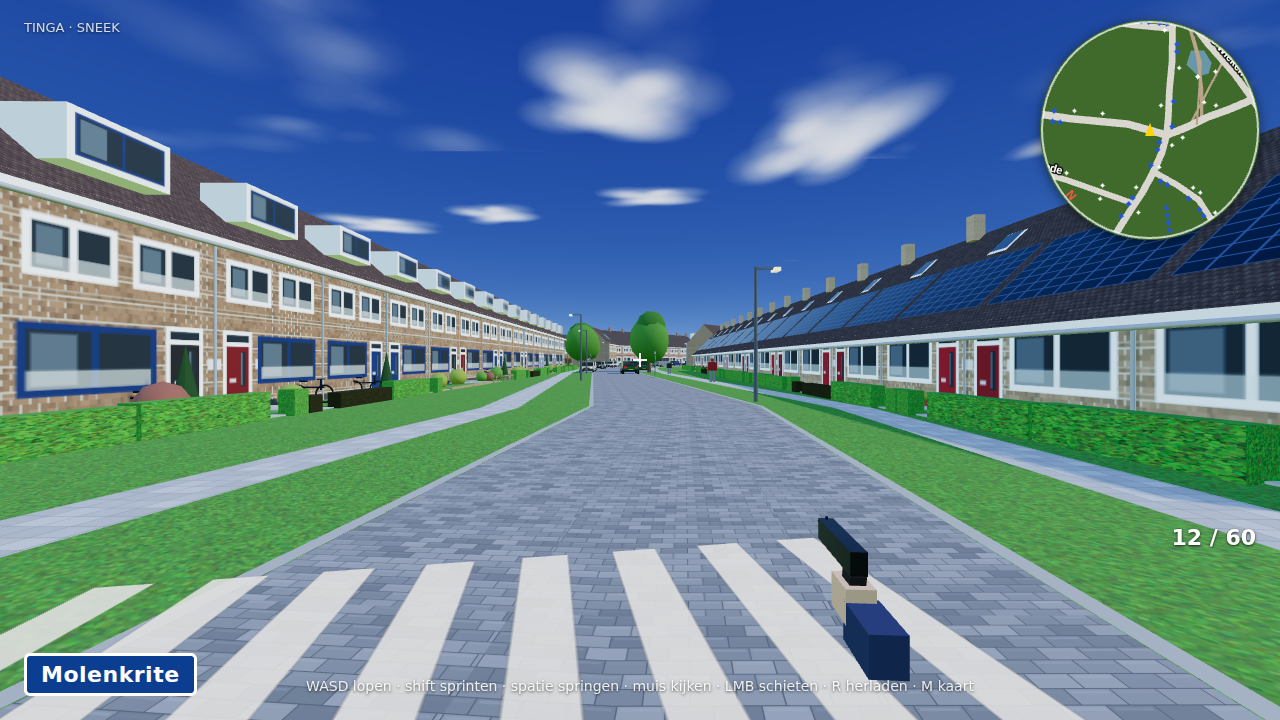
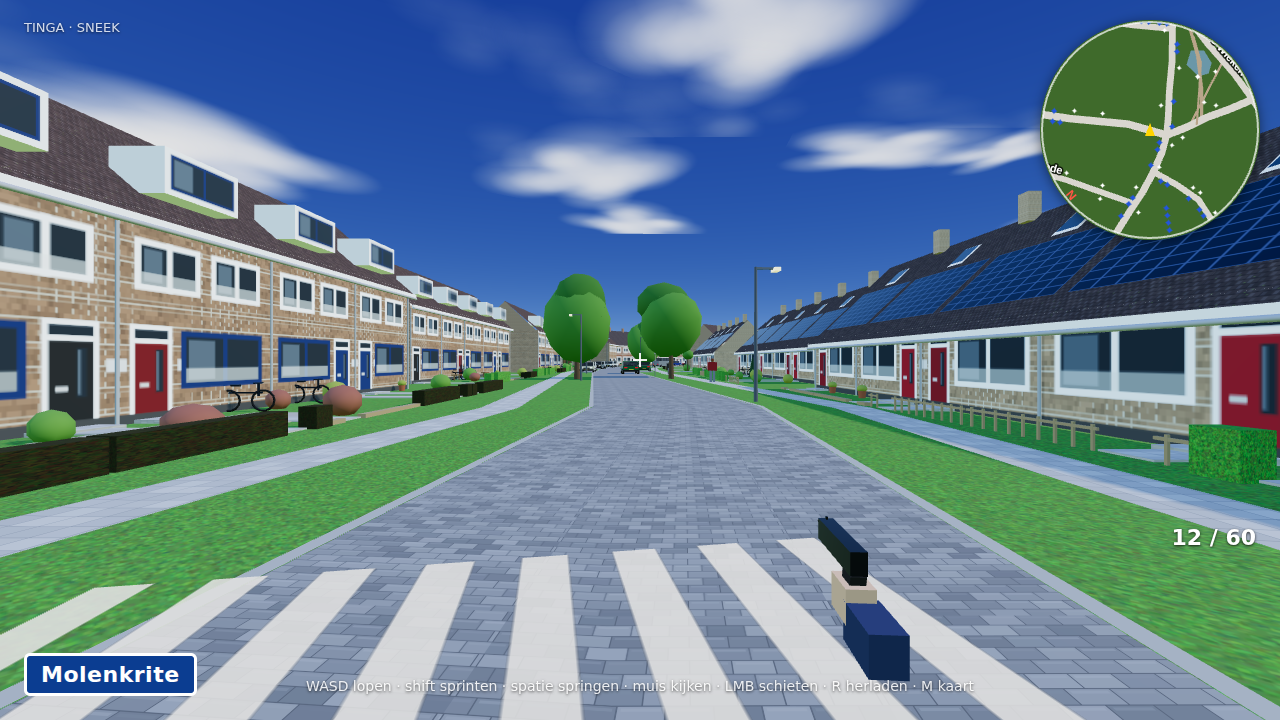
Molenkrite: verspringende rooilijn in plaats van een kaarsrechte rij
Op straat loopt een lange rij niet in een rechte lijn: na zes a zeven
woningen springt het blok een paar meter naar achteren en daarna weer naar
voren, waardoor je de kopgevel op de knik ziet. Mijn rijen stonden kaarsrecht.

- Nieuwe optie stagger per rij: { houses, step }. Een lange rij wordt
  opgeknipt in blokken van zoveel woningen, met om en om een grotere afstand
  tot de weg. Bruikbaar voor elke straat
- Molenkrite noordwestzijde: blokken van zeven met een sprong van 2,4 m
- Molenkrite zuidoostzijde: blokken van zes met een sprong van 2,0 m
- De verdichting met rug-aan-rug rijen werkt op de opgeknipte rijen, zodat
  de achterliggende rijen dezelfde sprong volgen

Claude-Session: https://claude.ai/code/session_01CgvJ3cT2qTz68qbaTBhnbp

diff --git a/js/world.js b/js/world.js
@@ -1,6 +1,6 @@
 // Wereldopbouw: wegen, stoepen, parkeervakken, water, groen, huizen, straatmeubilair.
 import * as THREE from 'three';
-import { ROADS, HIGHWAY, WATER, WATERWAYS, WOODS, GRASS, ROWS, PARKS, PARKING_LOTS, PLAYGROUND, START, toWorld } from './data.js';
+import { ROADS, HIGHWAY, WATER, WATERWAYS, WOODS, GRASS, ROWS, PARKS, PARKING_LOTS, PLAYGROUND, START, PX_PER_M, toWorld } from './data.js';
 import * as T from './textures.js';
 import { rng } from './textures.js';
 
@@ -460,6 +460,33 @@ function blocked(px, pz, margin, skipUnit = null) {
 }
 
 const rowBuilds = [];
+
+// Verspringende rooilijn. In Tinga loopt een lange rij niet in één rechte
+// lijn: na zes à zeven woningen springt het blok een paar meter naar achteren
+// en daarna weer naar voren. Een rij met { stagger: { houses, step } } wordt
+// hier opgeknipt in blokken met om en om een grotere afstand tot de weg.
+function expandStagger(row) {
+  if (!row.stagger) return [row];
+  const st = T.HOUSE_STYLES[row.type];
+  const [ax, ay] = row.a, [bx, by] = row.b;
+  const lenM = Math.hypot(bx - ax, by - ay) / PX_PER_M;
+  const per = (row.stagger.houses || 7) * st.w;
+  const n = Math.max(1, Math.round(lenM / per));
+  if (n < 2) return [row];
+  const sign = row.off < 0 ? -1 : 1;
+  const out = [];
+  for (let i = 0; i < n; i++) {
+    const t0 = i / n, t1 = (i + 1) / n;
+    out.push({
+      ...row,
+      a: [ax + (bx - ax) * t0, ay + (by - ay) * t0],
+      b: [ax + (bx - ax) * t1, ay + (by - ay) * t1],
+      off: sign * (Math.abs(row.off) + (i % 2 ? (row.stagger.step || 2.2) : 0)),
+      stagger: null,
+    });
+  }
+  return out;
+}
 
 // Fase 1: bepaal per rij welke woningen passen en bouw de gebouwen
 function buildRow(scene, row, idx) {
@@ -1159,20 +1186,21 @@ export function buildWorld(scene) {
   }
   for (const park of PARKS) parkPolys.push(park.poly.map(vec));
   buildRoads(scene);
-  ROWS.forEach((row, i) => buildRow(scene, row, i));
+  const allRows = ROWS.flatMap(expandStagger);
+  allRows.forEach((row, i) => buildRow(scene, row, i));
   // Verdichting: in Tinga liggen de rijen vrijwel overal rug aan rug met de
   // achtertuinen tegen elkaar. Achter elke rij komt daarom een tweede rij, die
   // alleen wordt gebouwd waar hij niet tegen een weg, water of andere woning botst.
   const GARDENS = 17;                       // twee achtertuinen van 8,5 m
   const skip = new Set(['spil', 'appart']);
   const generated = [];
-  for (const row of ROWS) {
+  for (const row of allRows) {
     if (row.flip || skip.has(row.type)) continue;
     const sign = row.off < 0 ? -1 : 1;
     generated.push({ ...row, off: sign * (Math.abs(row.off) + 2 * row.depth + GARDENS), flip: true, generated: true });
   }
   // en nog een derde rij voor de diepe blokken
-  for (const row of ROWS) {
+  for (const row of allRows) {
     if (row.flip || skip.has(row.type) || row.type === 'detached' || row.type === 'bonkelaar') continue;
     const sign = row.off < 0 ? -1 : 1;
     generated.push({ ...row, off: sign * (Math.abs(row.off) + 2 * row.depth + GARDENS + row.depth + 14), flip: false, generated: true });

diff --git a/js/data.js b/js/data.js
@@ -210,8 +210,8 @@ R(480,781, 596,706, -13, 9, 'molenkrite');
 R(307,1075, 600,880, -13, 9, 'molenkrite');               // zuidoostzijde Binnenroede
 
 // ===== Molenkrite noord (P -> 688,980), links (+) = noordwest =====
-R(400,1220, 645,1015,  12, 9, 'molenkrite');               // NW-zijde
-R(400,1220, 645,1015, -12, 9, 'molenkrite_bung');          // ZO-zijde: bungalows met vol zonnedak en rode deuren
+R(400,1220, 645,1015,  12, 9, 'molenkrite', { stagger: { houses: 7, step: 2.4 } });  // NW-zijde, verspringende rooilijn
+R(400,1220, 645,1015, -12, 9, 'molenkrite_bung', { stagger: { houses: 6, step: 2.0 } });  // ZO-zijde: bungalows met vol zonnedak
 R(418,1206, 660,1002, -38, 9, 'molenkrite', { flip: true }); // achterliggende rij, gevel naar het hofpad
 R(838,1160, 628,1350, -13, 9, 'molenpaal');                 // Molenpaal noordwestzijde (gele steen)
 // Molenkrite oost-west (688,980 -> 1183,1000), links (+) = noord
